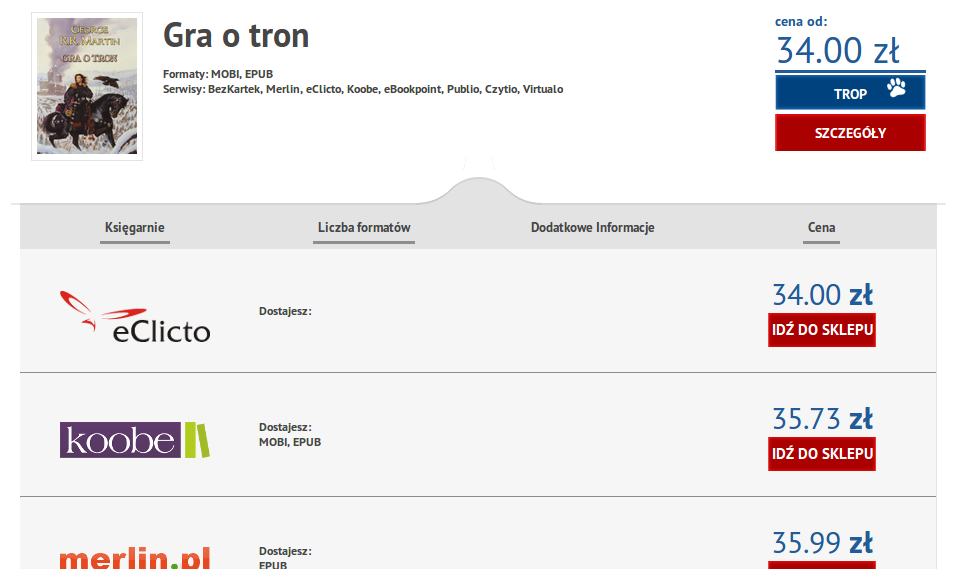
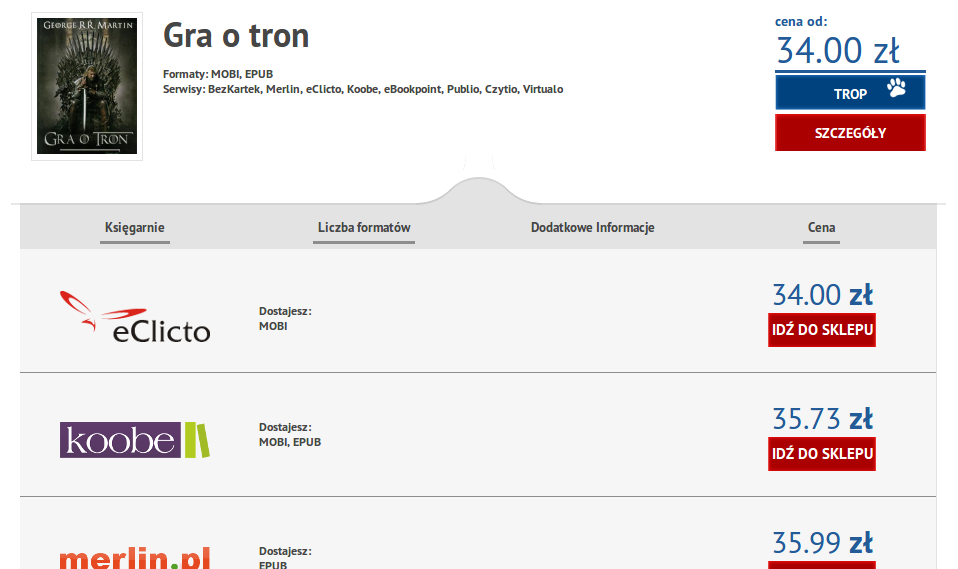
enabling carousel for pitchup-pwa, correction of 1 graphic for spistresci-pl

Changed region(s): [[0.0303, 0.0299, 0.1514, 0.2689], [0.2724, 0.5677, 0.3027, 0.5975]]

diff --git a/src/views/projects/PitchupPWA.vue b/src/views/projects/PitchupPWA.vue
@@ -4,11 +4,11 @@
   <div class="section-row">
     <h3 class="section-title">Project Background</h3>
     <h3 class="section-title">My role in this project</h3>
-    <!-- <carousel :items-to-show="5" :wrap-around="true">
+    <carousel :items-to-show="5" :wrap-around="true">
       <slide v-for="slide in 10" :key="slide">
         <img
           class="d-block w-100"
-          :src="`/images/projects//${slide}.png`"
+          :src="`/images/projects/${project.slug}/${slide}.png`"
           alt=""
         />
       </slide>
@@ -17,7 +17,7 @@
         <navigation />
         <pagination />
       </template>
-    </carousel> -->
+    </carousel>
   </div>
 
   <div class="section-row">
@@ -36,7 +36,7 @@
 
 <script lang="ts">
 import { PropType, defineComponent } from "vue";
-// import { Carousel, Navigation, Pagination, Slide } from "vue3-carousel";
+import { Carousel, Navigation, Pagination, Slide } from "vue3-carousel";
 import { CoverImage } from "@/components";
 import { useDB } from "@/composables";
 import "vue3-carousel/dist/carousel.css";
@@ -46,10 +46,10 @@ export default defineComponent({
   name: "Pitchup",
   components: {
     CoverImage,
-    // Carousel,
-    // Slide,
-    // Pagination,
-    // Navigation,
+    Carousel,
+    Slide,
+    Pagination,
+    Navigation,
   },
   props: {
     project: {
